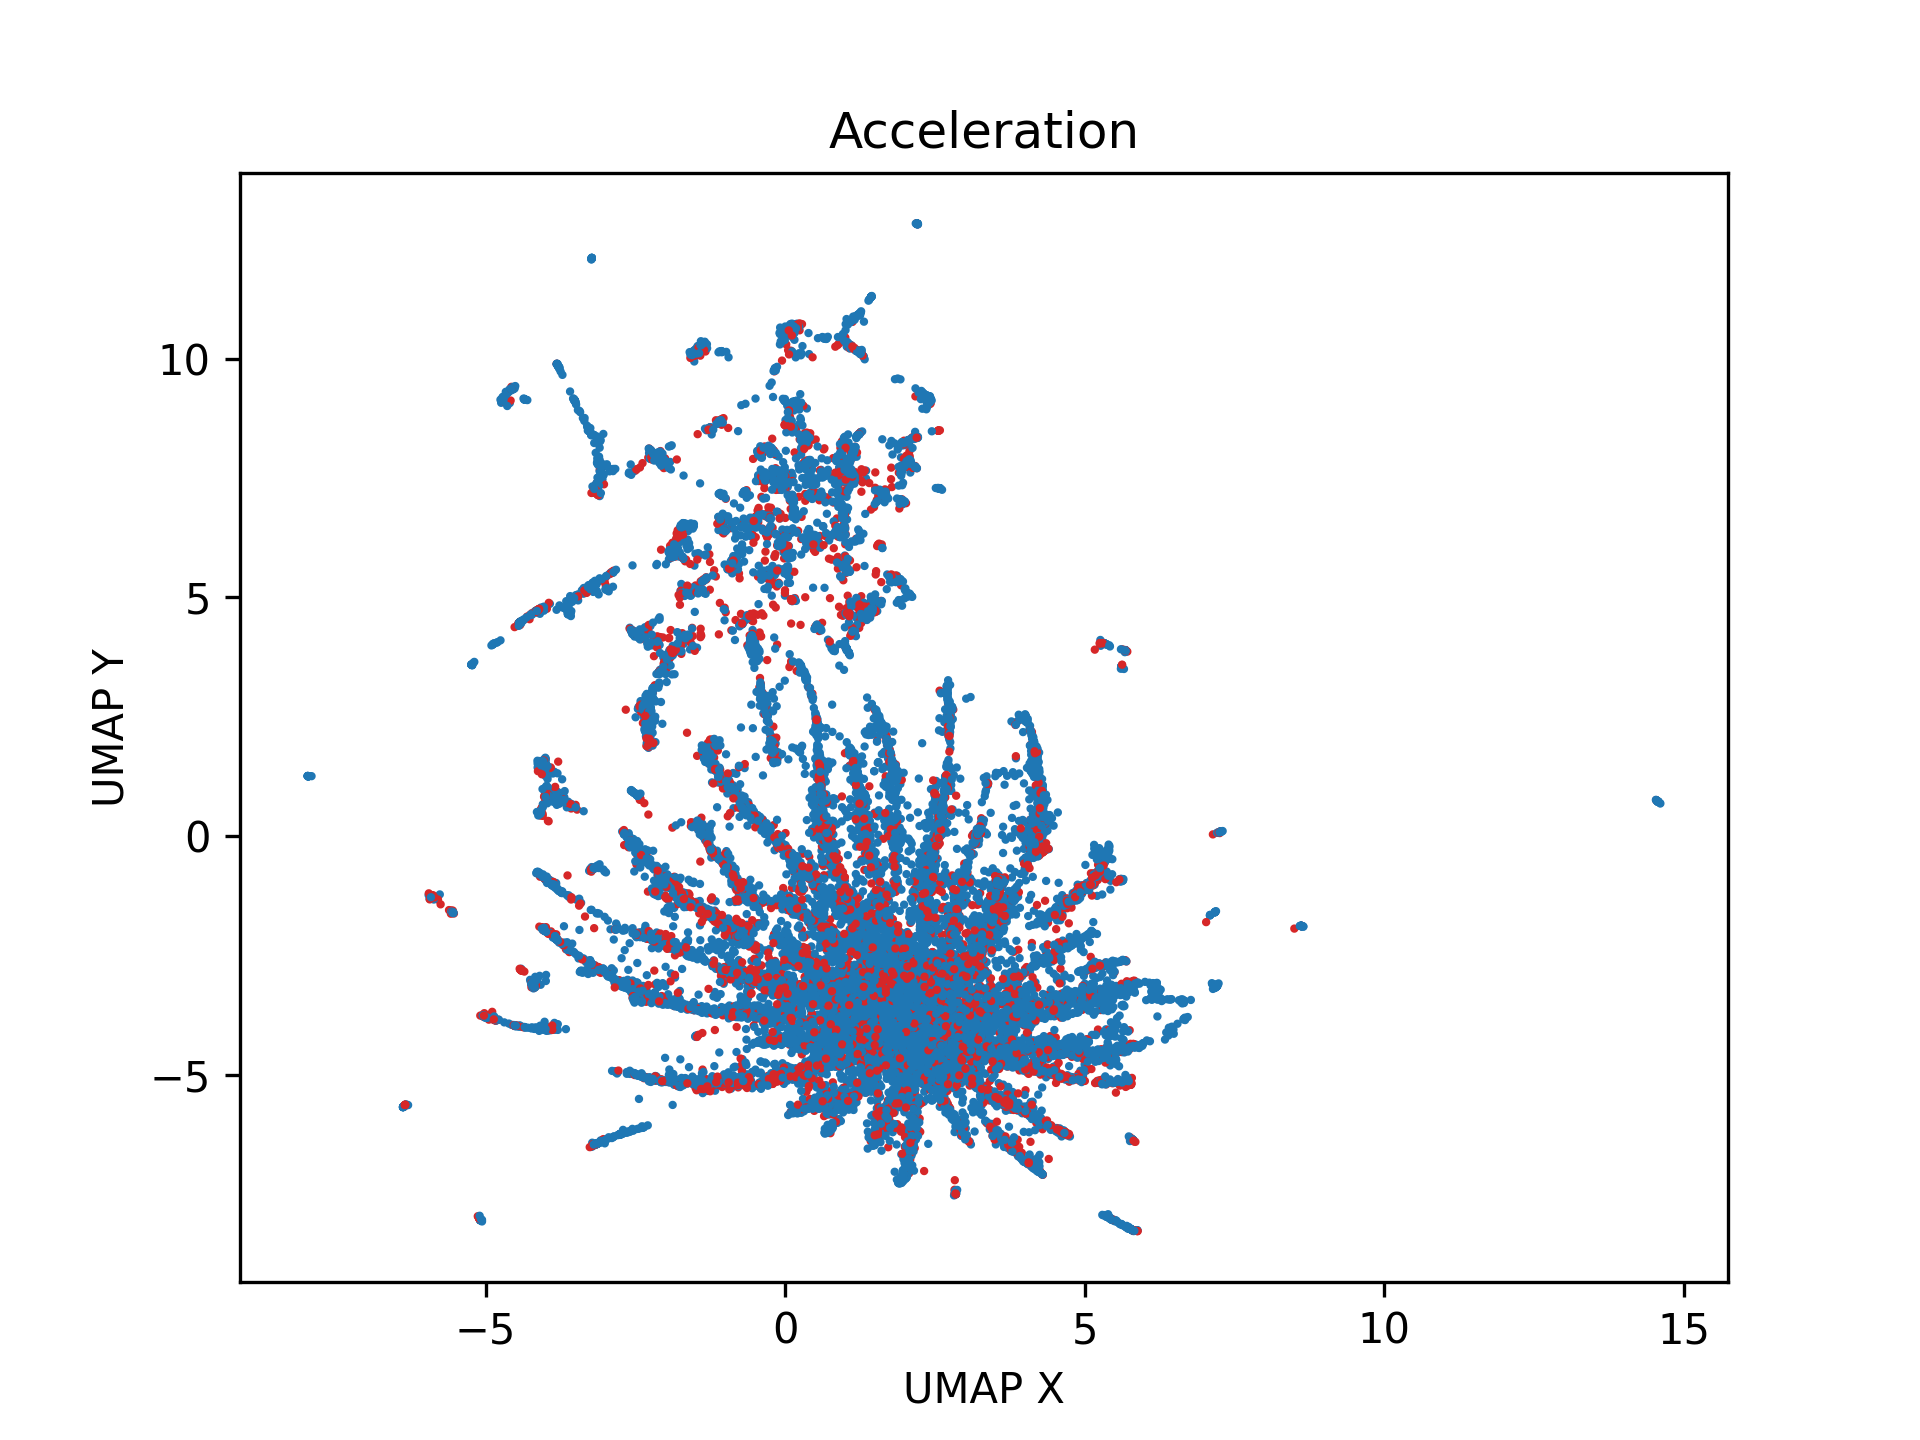
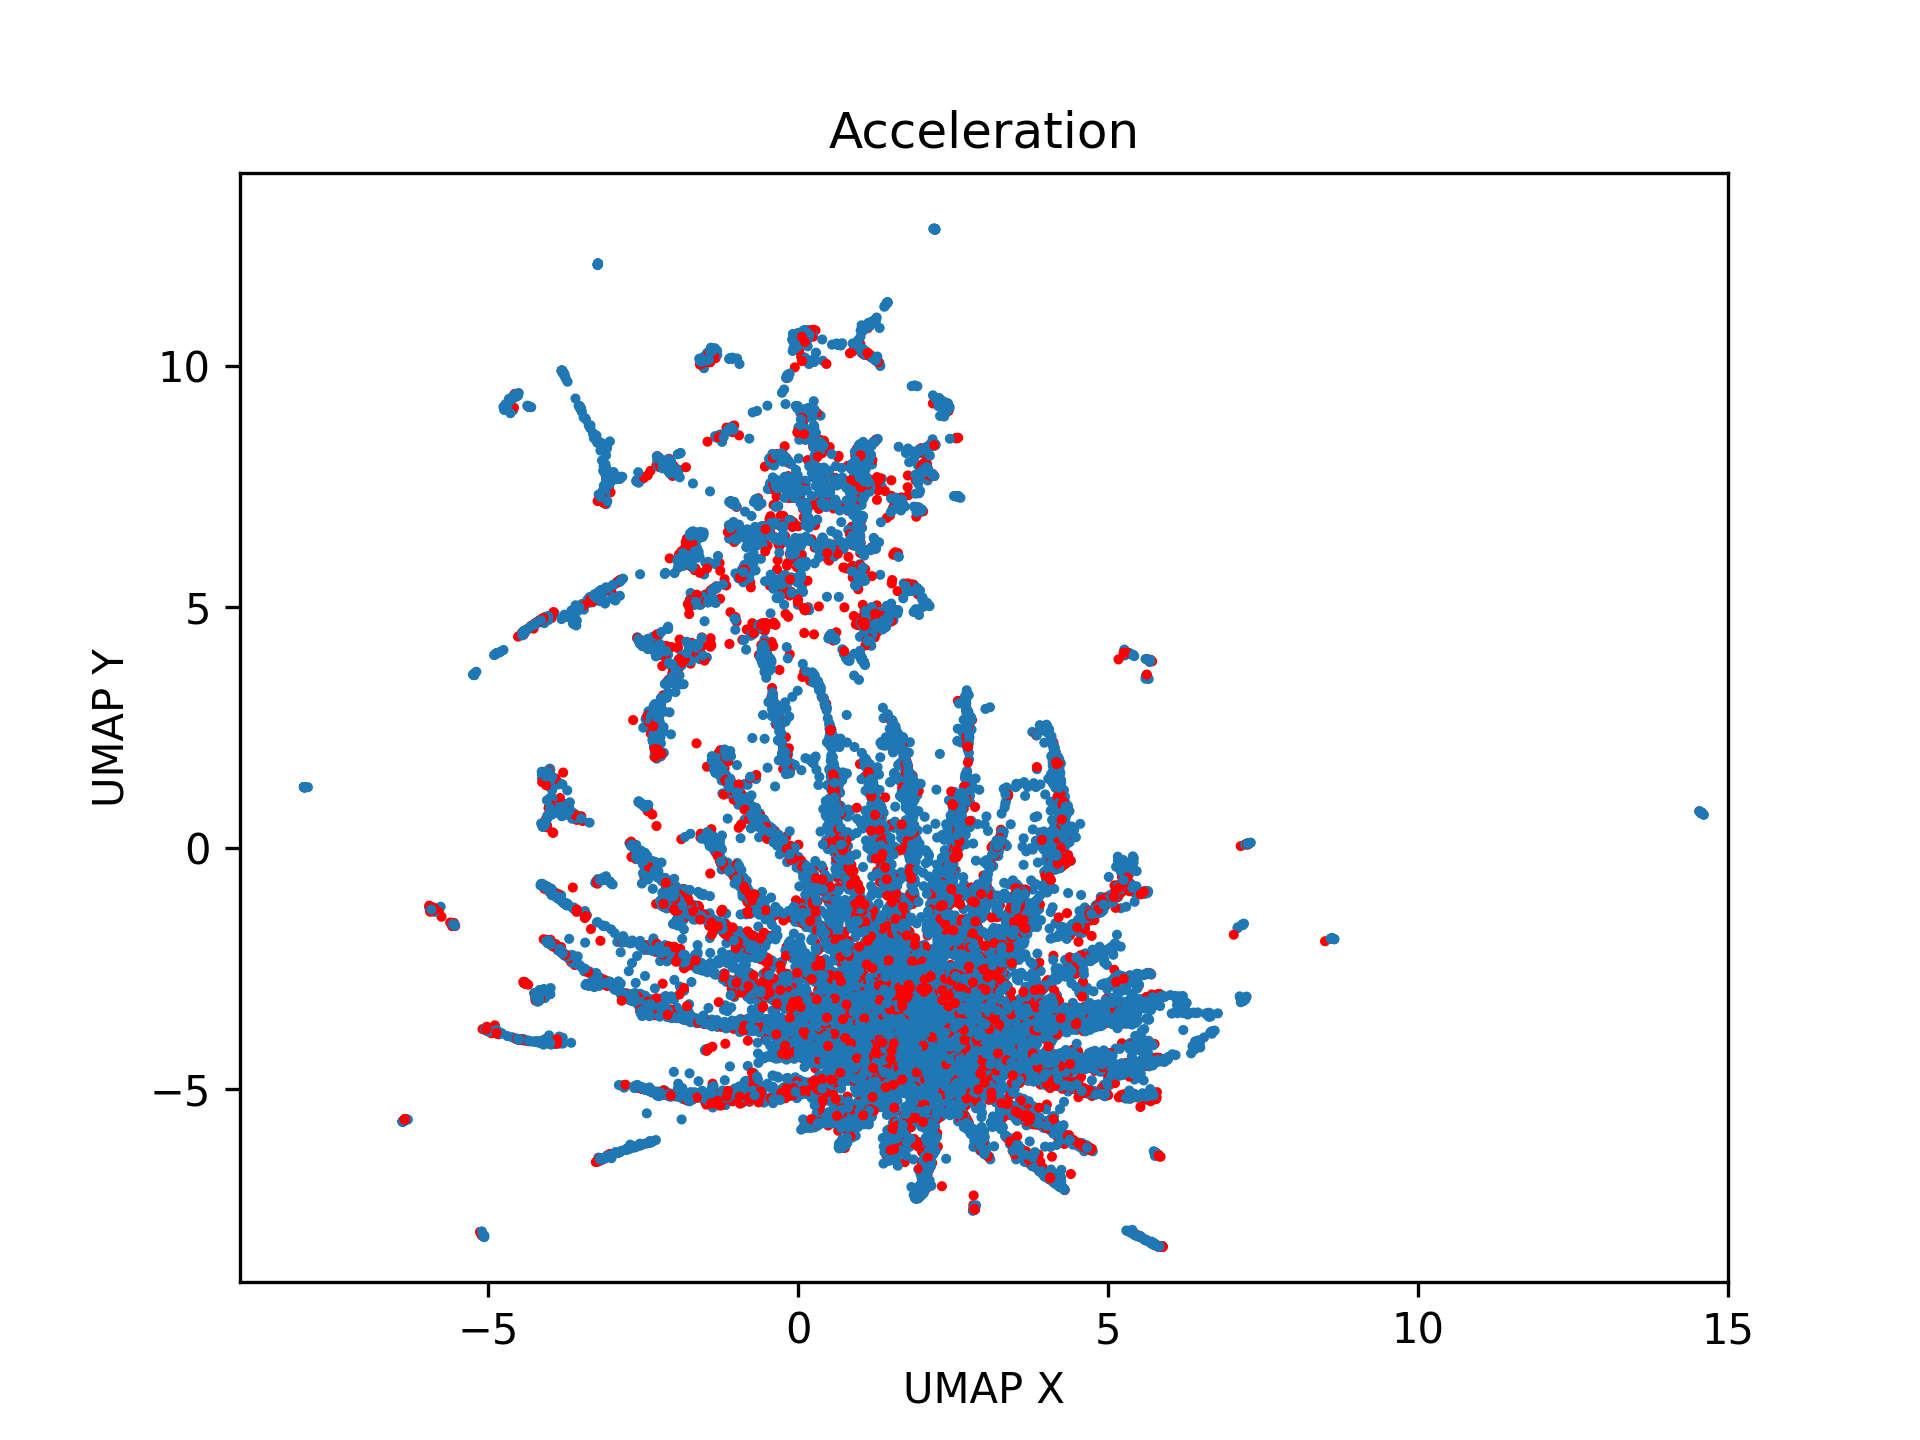
Standardised images and made some skeleton alterations

diff --git a/monke_skeleton_animation.py b/monke_skeleton_animation.py
@@ -3,18 +3,21 @@ from pathlib import Path
 
 import numpy as np
 import matplotlib.pyplot as plt
+import pandas as pd
 
 from matplotlib.animation import FuncAnimation
 from matplotlib.widgets import Button, Slider
 
 import cv2
 
+from monke_features import get_indices, generate_labelled_frames
+
 cd = Path(__file__).parent
 
-data_2d = np.genfromtxt(path.join(cd, "raw", "2d", "boba_apr11_camera1.csv"), skip_header=3, delimiter=",")[:, 1:]
-tremours = np.genfromtxt(path.join(cd, "features", "acceleration", "boba_apr11_labels.csv"), skip_header=1, delimiter=",")[:, 2]
-video_file = path.join(cd, "raw", "2d", "boba_apr11_camera1.mp4")
-output_file = path.join(cd, "skeleton", "boba_apr11_skeleton.mp4")
+data_2d = np.genfromtxt(path.join(cd, "raw", "2d", "bandung_mar27_3_camera1.csv"), skip_header=3, delimiter=",")[:, 1:]
+tremours = generate_labelled_frames(data_2d, pd.read_csv(path.join(cd, "raw", "bandung_mar27_3_tremours.csv")))
+video_file = path.join(cd, "raw", "2d", "bandung_mar27_3_camera1.mp4")
+output_file = path.join(cd, "skeleton", "bandung_mar27_3_skeleton.mp4")
 
 def animated2d(data, tremours, video_file, output_file):
     frames = data.shape[0]
@@ -35,7 +38,9 @@ def animated2d(data, tremours, video_file, output_file):
     fig = plt.figure()
     ax = fig.add_subplot()
 
-    ax.scatter(x[0], y[0], s=1)
+    #DELETE THIS LATER
+    target = np.array([5, 7, 9])
+    #JUST FOR ERIC TESTING
 
     def anim(frame):
         ret, frame_img = cap.read()
@@ -44,14 +49,14 @@ def animated2d(data, tremours, video_file, output_file):
         ax.clear()
         ax.imshow(frame_img)
         ax.set_title(f"{frame} / {frames}")
-        ax.set_xlim(750, 1750)
-        ax.set_ylim(800, 0)
+        ax.set_xlim(1000, 1750)
+        ax.set_ylim(800, 100)
         # ax.set_xlim(0, width)
         # ax.set_ylim(height, 0)
 
-        ax.scatter(x[frame], y[frame])
         tremouring = tremours[frame] == 1 if (frame < len(tremours)) else 0
-        ax.scatter(x[frame], y[frame], c="red" if tremouring else "blue", s=1)
+        ax.scatter(x[frame], y[frame], c="tab:red" if tremouring else "tab:blue", s=1)
+        ax.scatter(x[frame, target], y[frame, target], c="tab:brown" if tremouring else "tab:olive", s=1)
 
         fig.canvas.draw()
 
@@ -62,14 +67,40 @@ def animated2d(data, tremours, video_file, output_file):
         # # Convert RGB to BGR (required by OpenCV)
         # img = cv2.cvtColor(img, cv2.COLOR_RGB2BGR)
         # out.write(img)
-        
-    fa = FuncAnimation(fig, anim, interval=30)
+    
+    def toggle_pause(event):
+        if pause_button.label.get_text() == "Play":
+            # cap.set(cv2.CAP_PROP_POS_FRAMES, int(slider.val)-1)
+            fa.resume()
+            pause_button.label.set_text("Pause")
+        else:
+            fa.pause()
+            pause_button.label.set_text("Play")
+
+    # Function to handle slider changes
+    def on_slider_change(val):
+        fa.pause()
+        # cap.set(cv2.CAP_PROP_POS_FRAMES, int(val)-1)
+        pause_button.label.set_text("Play")
+        anim(int(val))
+
+    pause_ax = plt.axes([0.7, 0.01, 0.1, 0.05])
+    pause_button = Button(pause_ax, "Pause")
+    pause_button.on_clicked(toggle_pause)
+
+    slider_ax = plt.axes([0.2, 0.01, 0.4, 0.03])
+    slider = Slider(slider_ax, 'Frame', 0, frames-1, valinit=1, valstep=1)
+    slider.on_changed(on_slider_change)
+    
+    fa = FuncAnimation(fig, anim, interval=10)
 
     plt.show()
     #fa.save(output_file, fps=fps, extra_args=['-vcodec', 'libx264'])
 
     cap.release()
     out.release()
+
+animated2d(data_2d, tremours, video_file, output_file)
 
 def animated3d(data, tremours):
     frames = data.shape[0]
@@ -116,12 +147,6 @@ def screenshot_annotated(screenshot, x, y, labels, skeleton_sections):
     plt.axis('off')
 
     plt.show()
-
-# Returns the indices of the elements with the given names
-# a: Target array
-# names: Elements to get
-def get_indices(a, elements):
-    return [np.where(a == element)[0] for element in elements]
 
 # frame = 1173
 
@@ -213,5 +238,3 @@ def anim3d_test():
     skeleton = [bottom_indices, top_indices]#, face_indices]
 
     animated3d_upgraded(data_3d, tremours, skeleton)
-
-anim3d_test()

diff --git a/dim_reduction.py b/dim_reduction.py
@@ -13,10 +13,10 @@ def umap_reduce(data, labels=None, n_neighbors=15, n_components=2):
     reducer.fit(data, y=labels)
     return reducer.embedding_, reducer
 
-def visualise_reduced(reduced, labels, three_dimensional=False, title=None, save_fig=None, hide=-1):
+def visualise_reduced(reduced, labels, three_dimensional=False, title=None, save_fig=None, hide=-1, s=1):
     fig = plt.figure()
     
-    colours = ["tab:blue", "tab:red"]
+    colours = ["tab:blue", "red"]
 
     ax = fig.add_subplot(projection="3d" if three_dimensional else None)
 
@@ -33,12 +33,14 @@ def visualise_reduced(reduced, labels, three_dimensional=False, title=None, save
     cmap = mplc.ListedColormap(colours)
     
     if three_dimensional:
-        ax.scatter(to_plot[:, 0], to_plot[:, 1], to_plot[:, 2], c=to_label, s=1, cmap=cmap)
+        ax.scatter(to_plot[:, 0], to_plot[:, 1], to_plot[:, 2], c=to_label, s=s, cmap=cmap)
     else:
-        ax.scatter(to_plot[:, 0], to_plot[:, 1], c=to_label, s=1, cmap=cmap)
+        ax.scatter(to_plot[:, 0], to_plot[:, 1], c=to_label, s=s, cmap=cmap)
 
     ax.set_ylabel("UMAP Y")
     ax.set_xlabel("UMAP X")
+    ax.set_xbound((-9, 15))
+    ax.set_ybound((-9, 14))
 
     if title is not None:
         ax.set_title(title)
@@ -75,7 +77,7 @@ labels = np.genfromtxt(path.join(cd, "features", "acceleration", "boba_apr11_lab
 
 for i in [-1, 0, 1]:
     save_fig_path = path.join(cd, "features", "acceleration", f"boba_apr11_accel{'_tremor' if i == 0 else ('_normal' if i == 1 else '')}.png")
-    visualise_reduced(reduced, labels, title="Acceleration", save_fig=save_fig_path, hide=i)
+    visualise_reduced(reduced, labels, title="Acceleration", save_fig=save_fig_path, hide=i, s=2)
 
 def quick_umap_results(data, process, labels, n_neighbors=15, n_components=2):
     processed = process(data)

diff --git a/monke_features.py b/monke_features.py
@@ -2,7 +2,6 @@ import os.path as path
 import numpy as np
 import pandas as pd
 from pathlib import Path
-from monke_skeleton_animation import get_indices
 
 cd = Path(__file__).parent
 data = np.genfromtxt(path.join(cd, "raw", "boba_apr11.csv"), skip_header=3, delimiter=",")[:, 1:]
@@ -317,9 +316,9 @@ def generate_labelled_frames(pose_data, tremour_data_raw, save_as=None, fps=30):
 
     return labels
 
-pose_data = pd.read_csv(path.join(cd, "features", "joints", "boba_apr11_accel.csv"))
-tremour_data_raw = pd.read_csv(path.join(cd, "raw", "boba_apr11_tremours.csv"))
-generate_labelled_frames(pose_data, tremour_data_raw, path.join(cd, "features", "joints", "boba_apr11_accel_labels.csv"))
+# pose_data = pd.read_csv(path.join(cd, "features", "joints", "boba_apr11_accel.csv"))
+# tremour_data_raw = pd.read_csv(path.join(cd, "raw", "boba_apr11_tremours.csv"))
+# generate_labelled_frames(pose_data, tremour_data_raw, path.join(cd, "features", "joints", "boba_apr11_accel_labels.csv"))
 
 def generate_labelled_seconds(pose_data, tremour_data_raw, save_as=None):
     labels = []
@@ -347,3 +346,9 @@ def generate_labelled_seconds(pose_data, tremour_data_raw, save_as=None):
 # tremour_data_raw = pd.read_csv(path.join(cd, "raw", "boba_apr11_tremours.csv"))
 # file_name = path.join(cd, "features", "dir_change", "boba_apr11_labels.csv")
 # generate_labelled_seconds(pose_data, tremour_data_raw, file_name)
+
+# Returns the indices of the elements with the given names
+# a: Target array
+# names: Elements to get
+def get_indices(a, elements):
+    return [np.where(a == element)[0] for element in elements]
